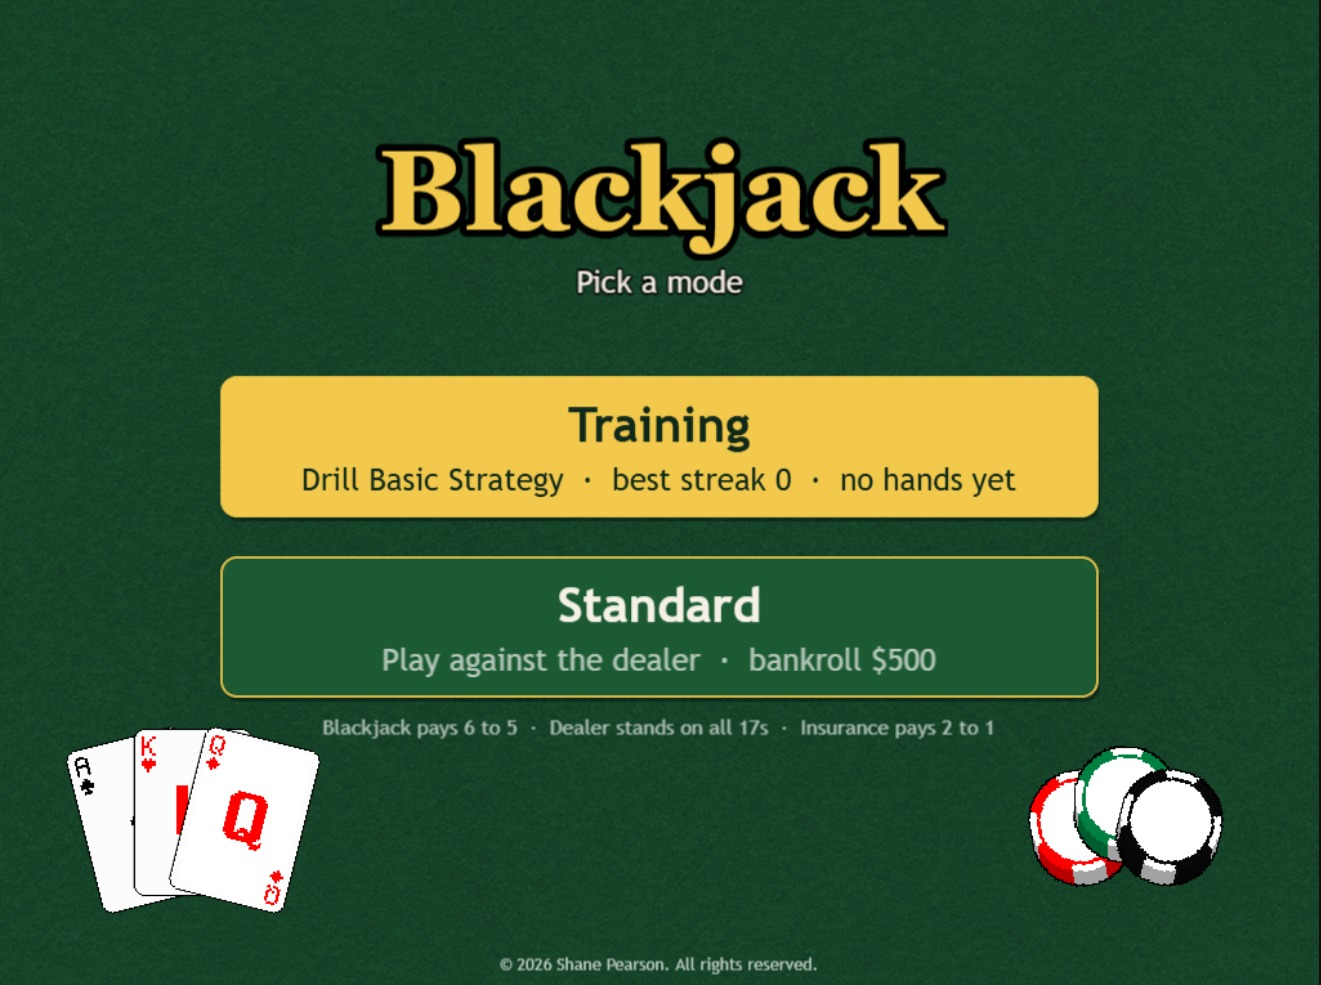
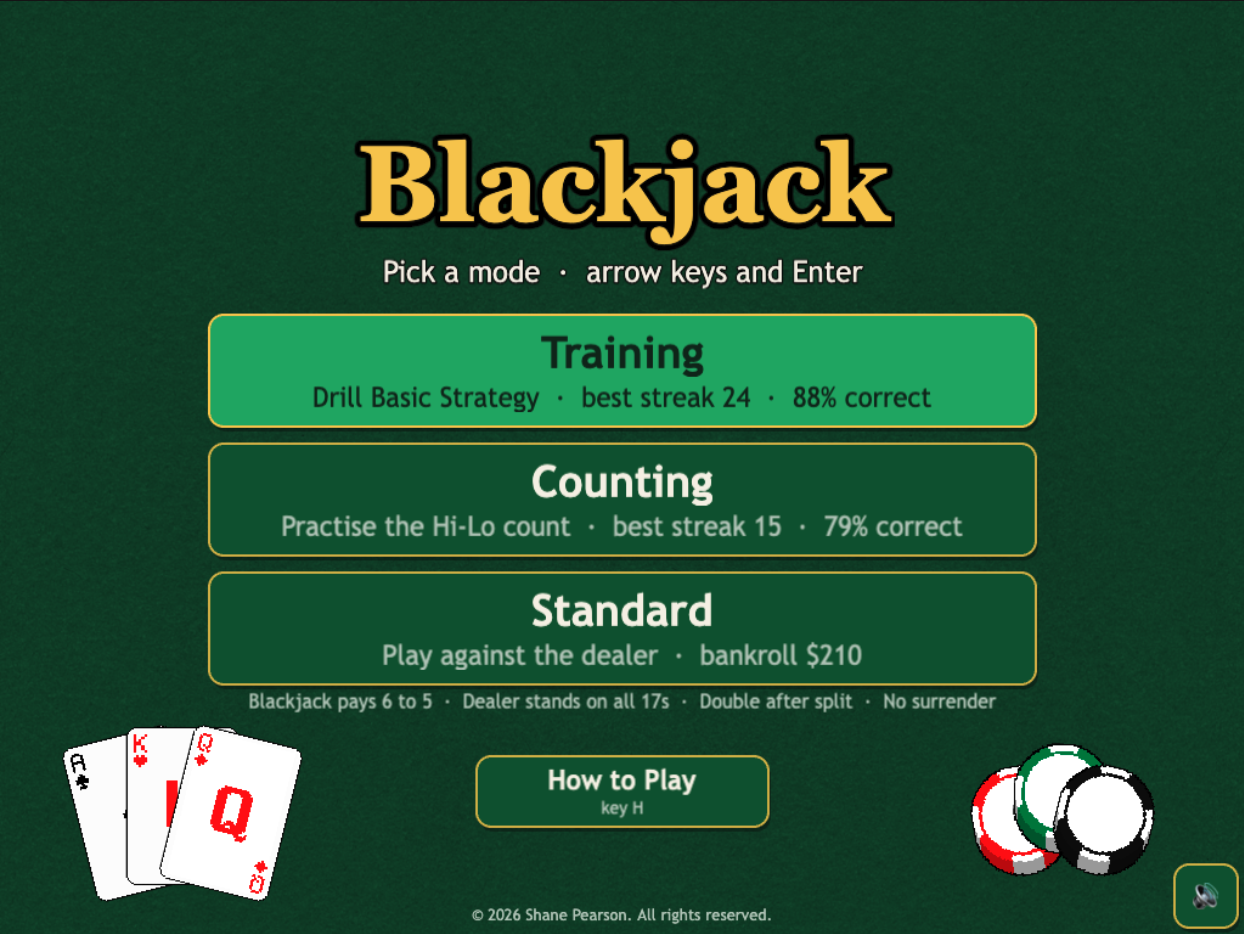
update readme

diff --git a/README.md b/README.md
@@ -1,8 +1,8 @@
 # Blackjack
 
 A blackjack game for the browser, built with [Phaser 4](https://github.com/phaserjs/phaser), TypeScript and
-[Vite](https://vitejs.dev/). It has two modes: one for learning Basic Strategy and one for playing a normal
-game against the dealer. There is no server; everything runs in the browser and progress is kept in
+[Vite](https://vitejs.dev/). It has three modes: one for learning Basic Strategy, one for practising the Hi-Lo
+card count, and one for playing a normal game against the dealer. There is no server; everything runs in the browser and progress is kept in
 `localStorage`.
 
 ![screenshot](screenshot.png)
@@ -22,6 +22,22 @@ no money.
   is never a natural on either side.
 - A square you miss is dealt more often (up to 3×) until you answer it right; the Mistakes chart (K) outlines
   the squares you are still missing and lists the worst.
+
+### Counting
+
+Practises the Hi-Lo card count. Cards flip off a shoe one at a time, and every 8 to 16 cards play stops and
+asks for the running count.
+
+- Hi-Lo tags: 2–6 count +1, 7–9 count 0, and tens and Aces count −1.
+- Every other quiz also asks for the true count: the running count divided by the decks left in the shoe
+  (to the nearest half deck, never less than half a deck), rounded toward zero.
+- Three speeds: Slow (a card every 1.5 s), Medium (1 s) and Fast (0.6 s), on keys 1–3. The shoe can be
+  1, 2, 4, 6 or 8 decks (6 by default). It is reshuffled, and the count goes back to 0, when a quarter of it
+  is left.
+- Type the answer with the digit keys, `-` to flip the sign, `Backspace` to delete, or `↑` / `↓` to step it,
+  then `Enter`. `Space` or `Enter` pauses and resumes the cards, and moves on after the feedback.
+- Tracks answers, accuracy, a live streak, a best streak and the average answer time (a single answer
+  counts for at most 30 seconds). Stats, speed and shoe size are saved; Reset stats (click twice) clears them.
 
 ### Standard
 
@@ -55,13 +71,34 @@ The balance is saved after every change, so reloading in the middle of a round f
 - Wins, losses and pushes are shown in blue, vermilion and grey rather than green and red, and never by
   colour alone: hands say WIN / LOSE / PUSH, answers start with ✓ or ✗, and the balance shows ▲ or ▼.
 - On touch screens every button's tap area reaches a little past its edge.
-- The production build is a Progressive Web App: it can be installed, and once loaded it plays offline.
+- The production build is a Progressive Web App: it can be installed, and once loaded it plays offline
+  (see [Installing for offline play](#installing-for-offline-play)).
 
 ### Sound
 
 Cards, chips and results have sound effects, synthesized in the browser (there are no audio files).
 The speaker button in the bottom-right corner of every screen, or the `M` key, turns sound off and on,
 and the setting is saved.
+
+## Installing for offline play
+
+The game can be installed as an app and played without a network connection.
+
+1. Open a production build over HTTPS (the deployed site) or on localhost (`npm run build && npm run preview`).
+   The dev server (`npm run dev`) does not register the service worker, so it cannot be installed.
+2. Let the game load once while online. The service worker caches everything it needs on that first visit.
+3. Install it:
+   - **Chrome or Edge (desktop):** the install icon at the right end of the address bar, or the browser menu
+     (Chrome: *Cast, save and share* → *Install page as app*; Edge: *Apps* → *Install this site as an app*).
+   - **Android (Chrome):** menu → *Add to Home screen* or *Install app*.
+   - **iPhone or iPad (Safari):** Share → *Add to Home Screen*.
+   - **Firefox (desktop):** cannot install web apps, but a loaded page still works offline in a normal tab.
+
+The installed app opens full screen in landscape. It picks up a new version the next time it is launched
+while online. Saved stats and bankroll belong to the address the game was installed from, so an app
+installed from localhost does not share progress with the deployed site.
+
+To check offline play, run `npm run preview`, open DevTools → *Application*, turn on *Offline* and reload.
 
 ## Getting started
 
@@ -95,8 +132,8 @@ installed and played offline; the dev server does not register the worker.
 |------|-------------|
 | `src/main.ts` | Waits for the DOM, then starts the game |
 | `src/game/main.ts` | The Phaser game config and scene list |
-| `src/game/logic/` | Rules and strategy: cards, shoe, hands, dealer, `StandardGame`, `TrainingSession`. No Phaser imports. |
-| `src/game/scenes/` | `Preloader`, `MainMenu`, `Training`, `Standard` |
+| `src/game/logic/` | Rules and strategy: cards, shoe, hands, dealer, `StandardGame`, `TrainingSession`, `CountingSession`. No Phaser imports. |
+| `src/game/scenes/` | `Preloader`, `MainMenu`, `Training`, `Counting`, `Standard`, `HowToPlay` |
 | `src/game/ui/` | Buttons, chips, hand and card rendering, settings modal, sprite atlas and theme |
 | `src/game/storage.ts` | The only code that touches `localStorage` |
 | `public/assets/` | Images, copied as-is to `dist/assets/` |
@@ -109,8 +146,10 @@ The canvas is a fixed 1024×768 space scaled to fit the window, so all layout us
 
 ## Saved data
 
-Two `localStorage` keys are used: `blackjack3.training` (hands seen, hands correct, best streak) and
-`blackjack3.table` (balance, shoe size, starting bankroll). Clearing site data resets both.
+Four `localStorage` keys are used: `blackjack3.training` (hands seen, hands correct, best streak, missed
+chart squares), `blackjack3.counting` (answers, correct answers, best streak, answer times, shoe size and
+speed), `blackjack3.table` (balance, settings, table rules, stats) and `blackjack3.sound` (mute). Clearing
+site data resets them all.
 
 ## License
 
